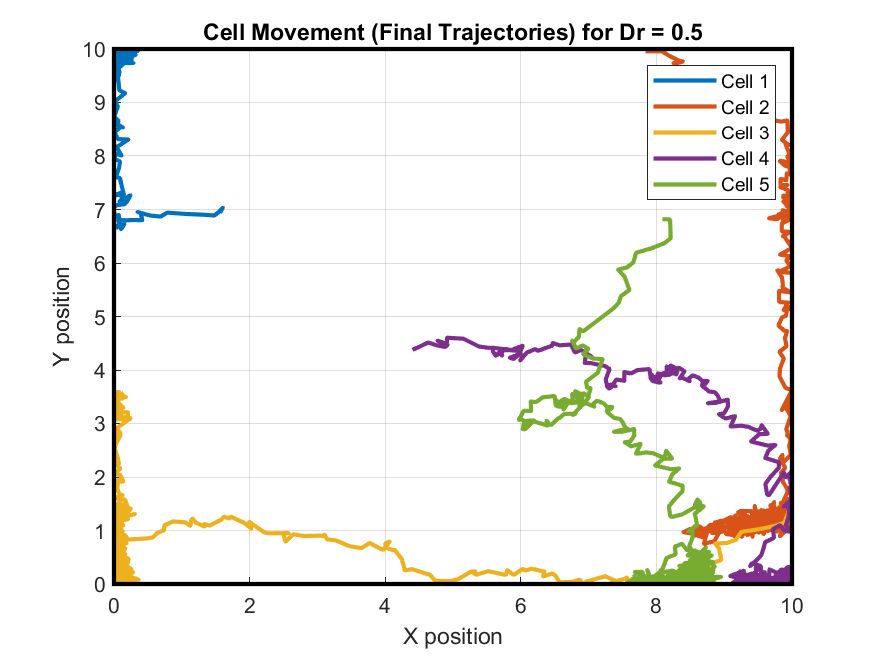
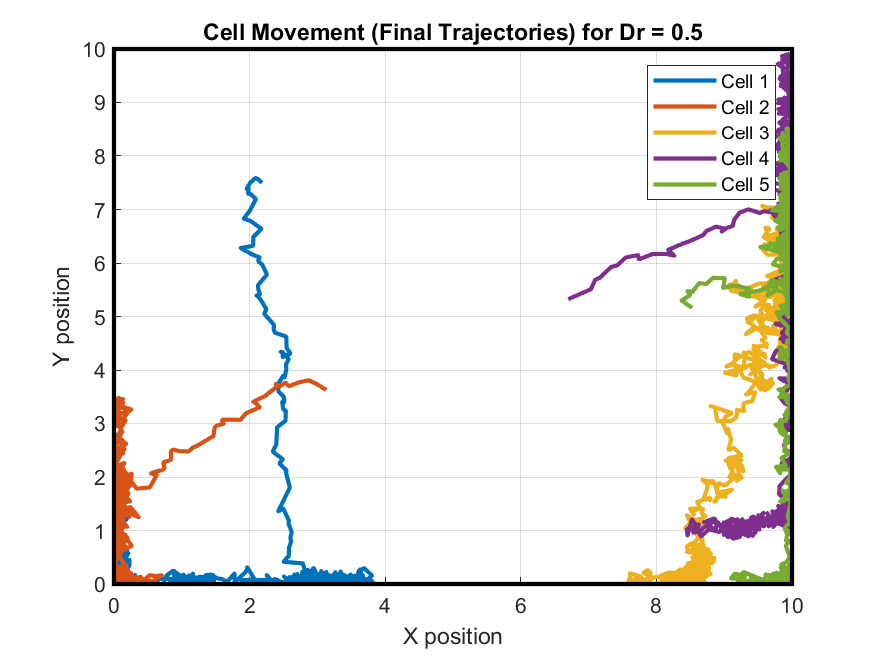
adjustments

diff --git a/Models_2024_04/Model1_2D_Hconst_multi_boundary.m b/Models_2024_04/Model1_2D_Hconst_multi_boundary.m
@@ -8,8 +8,7 @@ start_time_full = tic;
 %   1) Eq. of Motion: Fm*{cos(theta),sin(theta)} = gamma_s*v_i + dfW2(t)         %
 %   2) Eq. Repolarization SDE: d(theta)/dt = sqrt(2*Dr)*dfW1(t)                  %
 %   3) Eq. of Intercellular Force: 2/R * [Ws - (Ws + Wc)/R * (dij - R)]          %
-%   4) Reflective Boundary Conditions                                            %
-%                                                                                %
+%   4) Reflective Boundary Conditions with Repulsion                             %
 %%%%%%%%%%%%%%%%%%%%%%%%%%%%%%%%%%%%%%%%%%%%%%%%%%%%%%%%%%%%%%%%%%%%%%%%%%%%%%%%%%
 
 %% SET UP
@@ -23,6 +22,10 @@ interaction_threshold = 2 * R;  % Set to 2R as per the model
 
 % Simulation domain boundaries
 L = 10;  % Simulation square domain [0, L] x [0, L]
+
+% Repulsion parameters for the boundary
+boundary_repulsion_strength = 10;  % Strength of repulsion force from the boundary
+repulsion_threshold = 0.5 * R;    % Distance from the boundary where repulsion begins
 
 for dr_val = 1:length(Dr_values)
     start_time_model = tic;
@@ -43,10 +46,6 @@ for dr_val = 1:length(Dr_values)
     x_array = zeros(Nts, num_cells); 
     y_array = zeros(Nts, num_cells); 
     theta_array = zeros(Nts, num_cells);
-    
-    % Pre-allocate velocity arrays (optional, useful for boundary reflections)
-    vx_array = zeros(Nts, num_cells);
-    vy_array = zeros(Nts, num_cells);
     
     for cell_idx = 1:num_cells
         % Definition for Fractional Brownian Motion for orientation (theta)
@@ -87,7 +86,7 @@ for dr_val = 1:length(Dr_values)
                                 (y_array(t-1, cell_idx) - y_array(t-1, other_cell))^2);
                     
                     if d_ij <= interaction_threshold
-                        % Eq. of Intercellular Force
+                        % Cell-Cell adhesion force: strong attraction when close
                         F_int = (2/R) * (Ws - ((Ws + Wc)/R) * (d_ij - R));
 
                         % Avoid division by zero
@@ -109,29 +108,37 @@ for dr_val = 1:length(Dr_values)
             new_x = x_array(t-1, cell_idx) + dx_dt * dt;
             new_y = y_array(t-1, cell_idx) + dy_dt * dt;
             
-            %% Reflective Boundary Conditions
-            % Check and enforce boundaries for X
+            %% Reflective Boundary Conditions with Sustained Repulsion
+            % X boundary
             if new_x < 0
-                new_x = -new_x;  % Reflect position
-                dx_dt = -dx_dt;  % Reverse velocity component
+                new_x = 0;  % Ensure position is inside the domain
+                dx_dt = -abs(dx_dt);  % Reverse and ensure movement is away from boundary
             elseif new_x > L
-                new_x = 2*L - new_x;
-                dx_dt = -dx_dt;
+                new_x = L;
+                dx_dt = -abs(dx_dt);
             end
 
-            % Check and enforce boundaries for Y
+            % Y boundary
             if new_y < 0
-                new_y = -new_y;
-                dy_dt = -dy_dt;
+                new_y = 0;
+                dy_dt = -abs(dy_dt);
             elseif new_y > L
-                new_y = 2*L - new_y;
-                dy_dt = -dy_dt;
+                new_y = L;
+                dy_dt = -abs(dy_dt);
             end
             
-            % Optionally, store velocities if needed for analysis
-            vx_array(t, cell_idx) = dx_dt;
-            vy_array(t, cell_idx) = dy_dt;
-            
+            % Apply a sustained repulsive force near the boundary
+            if new_x < repulsion_threshold
+                dx_dt = dx_dt + boundary_repulsion_strength * (repulsion_threshold - new_x);
+            elseif new_x > (L - repulsion_threshold)
+                dx_dt = dx_dt - boundary_repulsion_strength * (new_x - (L - repulsion_threshold));
+            end
+            if new_y < repulsion_threshold
+                dy_dt = dy_dt + boundary_repulsion_strength * (repulsion_threshold - new_y);
+            elseif new_y > (L - repulsion_threshold)
+                dy_dt = dy_dt - boundary_repulsion_strength * (new_y - (L - repulsion_threshold));
+            end
+
             % Update position
             x_array(t, cell_idx) = new_x;
             y_array(t, cell_idx) = new_y;
@@ -165,15 +172,15 @@ for dr_val = 1:length(Dr_values)
     hold off;
     
     % Name the file according to the Dr value
-    file_name = fullfile(output_folder, sprintf('Trajectory_Simulation_Boundary_Dr=%d.png', Dr));
+    file_name = fullfile(output_folder, sprintf('Trajectory_Dr_%.2f.png', Dr));
     
-    % Save the graph as PNG, overwrite if necessary
+    % Save the figure
     saveas(gcf, file_name);
 
-    end_time = toc(start_time_model);
-    fprintf('Completed Model for Dr=%.2f in: %.2f seconds\n', Dr_values(dr_val), end_time);
+    % Timing
+    fprintf('Iteration for Dr = %.2f took %.2f seconds.\n', Dr, toc(start_time_model));
+    
 end
 
-% Mostrar el tiempo total de ejecución para todas las simulaciones
-end_time_full = toc(start_time_full);
-fprintf('Completed ALL simulations in: %.2f seconds\n', end_time_full);
+% Total time for all simulations
+fprintf('Total simulation time: %.2f seconds.\n', toc(start_time_full));
